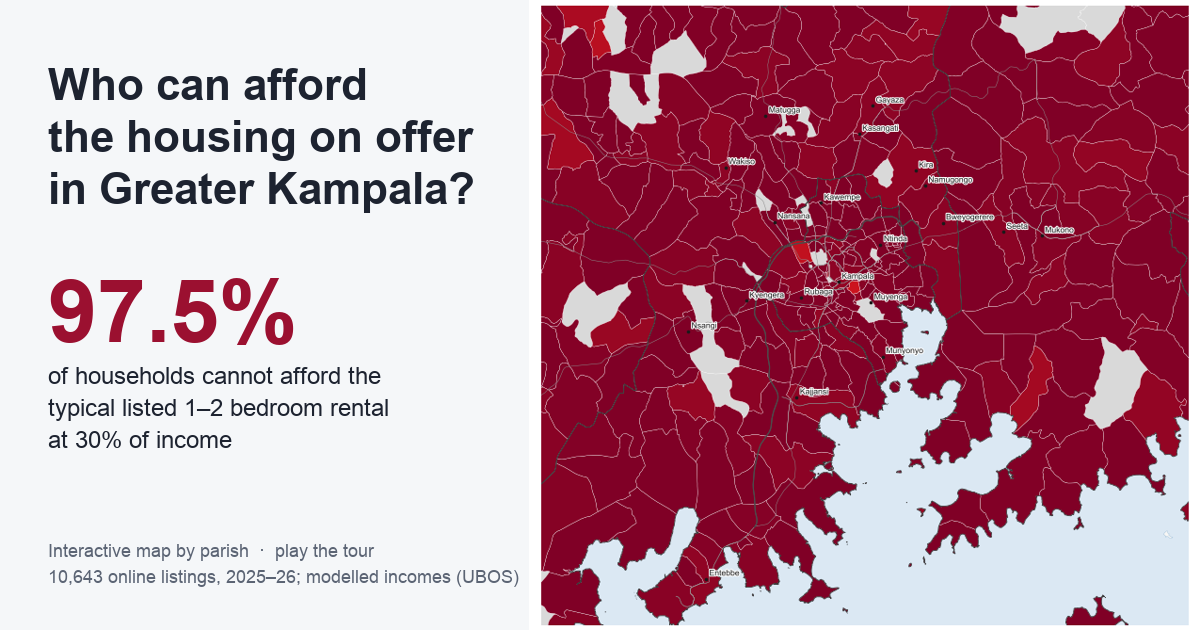
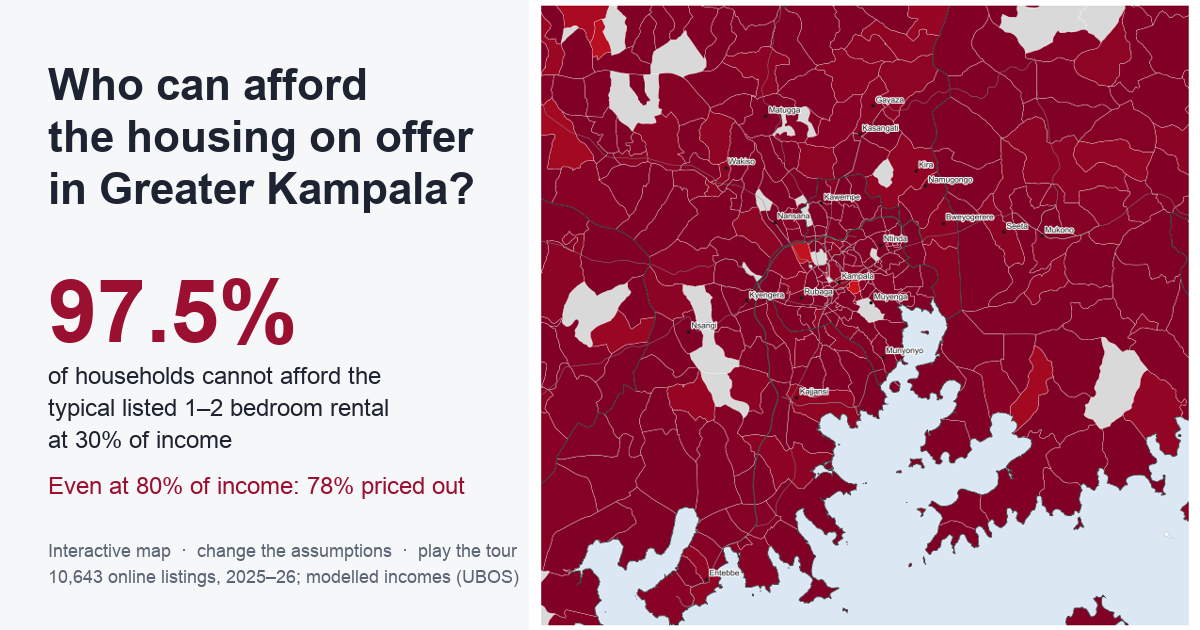
Link preview: add the 80%-of-income result

Changed region(s): [[0.1542, 0.8444, 0.4317, 0.9048], [0.0308, 0.754, 0.4008, 0.7841]]

diff --git a/index.html b/index.html
@@ -3,17 +3,17 @@
 <head>
 <meta charset="utf-8">
 <meta name="viewport" content="width=device-width, initial-scale=1, viewport-fit=cover">
-<meta name="description" content="97.5% of households in Greater Kampala cannot afford the typical listed 1–2 bedroom rental at 30% of income. Explore the map by parish, change the assumptions, or play the tour.">
+<meta name="description" content="97.5% of households in Greater Kampala cannot afford the typical listed 1–2 bedroom rental at 30% of income, and 78% even at 80%. Explore the map, change the assumptions, or play the tour.">
 <meta property="og:type" content="website">
 <meta property="og:title" content="Who can afford the housing on offer in Greater Kampala?">
-<meta property="og:description" content="97.5% of households in Greater Kampala cannot afford the typical listed 1–2 bedroom rental at 30% of income. Explore the map by parish, change the assumptions, or play the tour.">
+<meta property="og:description" content="97.5% of households in Greater Kampala cannot afford the typical listed 1–2 bedroom rental at 30% of income, and 78% even at 80%. Explore the map, change the assumptions, or play the tour.">
 <meta property="og:url" content="https://gavacharles.github.io/kampala-affordability-explorer/">
 <meta property="og:image" content="https://gavacharles.github.io/kampala-affordability-explorer/preview.png">
 <meta property="og:image:width" content="1200">
 <meta property="og:image:height" content="630">
 <meta name="twitter:card" content="summary_large_image">
 <meta name="twitter:title" content="Who can afford the housing on offer in Greater Kampala?">
-<meta name="twitter:description" content="97.5% of households in Greater Kampala cannot afford the typical listed 1–2 bedroom rental at 30% of income. Explore the map by parish, change the assumptions, or play the tour.">
+<meta name="twitter:description" content="97.5% of households in Greater Kampala cannot afford the typical listed 1–2 bedroom rental at 30% of income, and 78% even at 80%. Explore the map, change the assumptions, or play the tour.">
 <meta name="twitter:image" content="https://gavacharles.github.io/kampala-affordability-explorer/preview.png">
 <title>Greater Kampala Affordability Explorer</title>
 <link rel="preconnect" href="https://fonts.googleapis.com">
